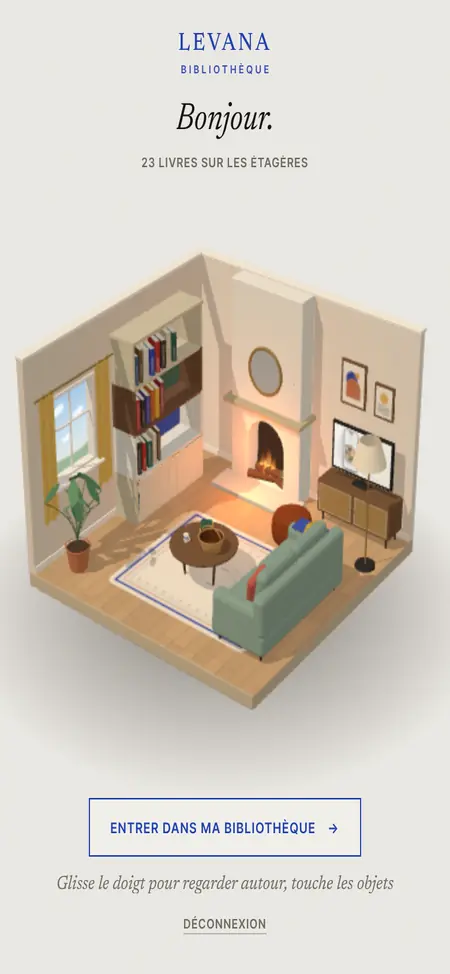
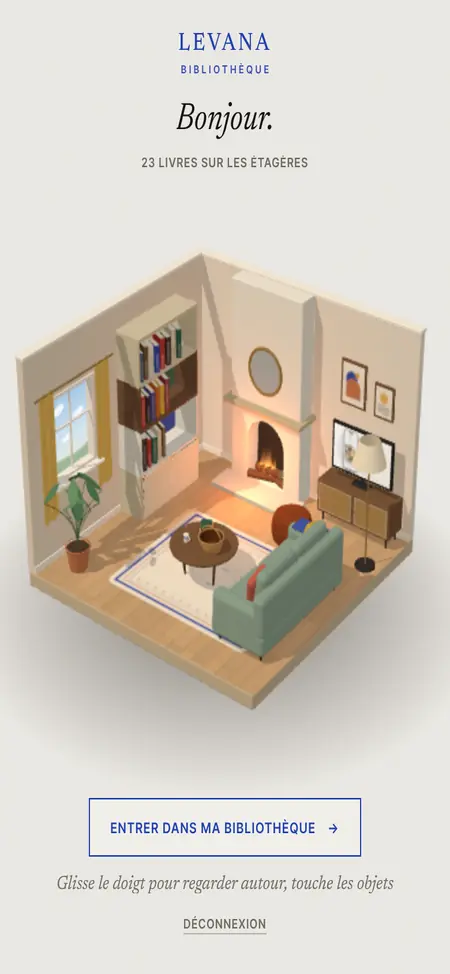
Téléphone : menu en bas comme une appli, rien en haut, étagères sans défilement
Claude-Session: https://claude.ai/code/session_01Tg9JuQWn64WBjX1JtYF8aa

Changed region(s): [[0.2489, 0.308, 0.4978, 0.5544], [0.4978, 0.3388, 0.5289, 0.3696], [0.4044, 0.2772, 0.4356, 0.308]]

diff --git a/src/App.jsx b/src/App.jsx
@@ -73,6 +73,7 @@ function Library({ user, onSignOut }) {
   const [search, setSearch] = useState(false)
   const [searchOpen, setSearchOpen] = useState(false)
   const [scanner, setScanner] = useState(false)
+  const [findOpen, setFindOpen] = useState(false)   // téléphone : « Chercher » (retrouver un livre, ranger par)
   const [guide, setGuide] = useState(false)     // livres du panier sortis en bas de l'écran, prêts à ranger
   // salon d'accueil : 'first' à l'arrivée, 'back' quand on y retourne, null dans la bibliothèque
   const [salon, setSalon] = useState(() => (HAS_WEBGL && !salonSeen() ? 'first' : null))
@@ -263,7 +264,7 @@ function Library({ user, onSignOut }) {
           shelves={shelves} commitShelves={commitShelves} newShelfSignal={newShelfSignal}
           onOpen={openBook} onAdd={openSearch} locked={overlay} apiRef={bookcaseApi}
           onShelfClick={id => setShelvesOpen({ id })}
-          aside={basket.items.length > 0 ? (
+          aside={basket.items.length > 0 && !mobile ? (
             <BasketTray
               items={basket.items} shelves={effShelves} books={books} api={bookcaseApi} mobile={mobile}
               canDrop={HAS_WEBGL && manual} open={guide} onOpen={() => setGuide(true)} onClose={() => setGuide(false)}
@@ -272,6 +273,62 @@ function Library({ user, onSignOut }) {
           ) : null}
           highlightId={highlightId} focusId={focusId} onFocused={onFocused} emptyText={emptyText}
         />
+      )}
+
+      {/* Téléphone : le panier s'ouvre depuis l'onglet « Panier » (pas de panier sous le mur) */}
+      {mobile && basket.items.length > 0 && (
+        <BasketTray
+          bare items={basket.items} shelves={effShelves} books={books} api={bookcaseApi} mobile
+          canDrop={HAS_WEBGL && manual} open={guide} onOpen={() => setGuide(true)} onClose={() => setGuide(false)}
+          onDropBook={dropFromBasket} onPlace={placeGuided} onOpenBook={b => onPick(b, null)}
+        />
+      )}
+
+      {/* Téléphone : menu en bas, comme une appli (pas dans le salon, qui a le sien) */}
+      {mobile && !salon && (
+        <>
+          {findOpen && (
+            <div className="find-sheet grain" onPointerDown={e => e.stopPropagation()}>
+              <LibrarySearch books={books} shelves={effShelves} autoFocus up onPick={id => { setFindOpen(false); setFocusId(id) }} />
+              <label className="lbl find-sort">
+                <span>Ranger par</span>
+                <select value={sort} onChange={e => setSort(e.target.value)}>
+                  {SORTS.map(o => <option key={o.id} value={o.id}>{o.label}</option>)}
+                </select>
+              </label>
+            </div>
+          )}
+          {findOpen && <div className="find-backdrop" onPointerDown={() => setFindOpen(false)} />}
+          <nav className="tabbar" aria-label="Menu">
+            {HAS_WEBGL && (
+              <button type="button" className="tab" onClick={() => { setFindOpen(false); setGuide(false); setSalon('back') }}>
+                <svg viewBox="0 0 24 24" aria-hidden="true"><path d="M3.5 11.2L12 4l8.5 7.2M6 9.8V20h12V9.8M10 20v-5.5h4V20" /></svg>
+                <span>Salon</span>
+              </button>
+            )}
+            <button type="button" className={'tab' + (findOpen ? ' on' : '')} onClick={() => setFindOpen(o => !o)}>
+              <svg viewBox="0 0 24 24" aria-hidden="true"><circle cx="10.5" cy="10.5" r="6" /><path d="M15 15l5 5" /></svg>
+              <span>Chercher</span>
+            </button>
+            <button type="button" className="tab tab-shop" onClick={() => { setFindOpen(false); openSearch() }} aria-label="Boutique : ajouter des livres">
+              <span className="tab-shop-bubble">
+                <svg viewBox="0 0 24 24" aria-hidden="true"><path d="M5 8h14l-1.2 12H6.2L5 8zM9 8V6.5a3 3 0 016 0V8" /><path d="M12 11.5v5M9.5 14h5" /></svg>
+              </span>
+              <span>Boutique</span>
+            </button>
+            <button type="button" className={'tab' + (shelvesOpen ? ' on' : '')} onClick={() => { setFindOpen(false); setShelvesOpen({ id: null }) }}>
+              <svg viewBox="0 0 24 24" aria-hidden="true"><path d="M4 4v16M20 4v16M4 9h16M4 14.5h16M4 20h16M7 9V6M9 9V5.5M12 14.5v-3.5M14.5 14.5v-3" /></svg>
+              <span>Étagères</span>
+            </button>
+            <button type="button" className={'tab' + (guide ? ' on' : '')} onClick={() => { setFindOpen(false); if (basket.items.length) setGuide(g => !g); else openSearch() }}>
+              <span className="tab-ico">
+                <svg viewBox="0 0 24 24" aria-hidden="true"><path d="M3.5 10h17l-1.8 9.5H5.3L3.5 10zM8 10l3-5.5M16 10l-3-5.5M8.5 13.5v3M12 13.5v3M15.5 13.5v3" /></svg>
+                {basket.items.length > 0 && <span className="tab-badge" key={basket.items.length}>{basket.items.length}</span>}
+              </span>
+              <span>Panier</span>
+            </button>
+          </nav>
+        </>
       )}
 
       <footer className="footer-bar">

diff --git a/src/styles.css b/src/styles.css
@@ -1345,3 +1345,63 @@ canvas { -webkit-user-select: none; user-select: none; -webkit-touch-callout: no
   .salon-out { font-size: 9px; }
 }
 .add-btn { gap: 5px; }
+
+/* Téléphone : comme une appli — rien en haut, un menu en bas ------------------------------ */
+.tabbar, .find-sheet, .find-backdrop { display: none; }
+@media (max-width: 767px) {
+  .top-bar, .scene-tabs { display: none !important; }
+  .scene { padding-top: env(safe-area-inset-top, 0px); padding-bottom: calc(64px + env(safe-area-inset-bottom, 0px)); }
+  /* le bas de la bibliothèque : seulement Sommaire et Tout voir, posés sur le mur */
+  .scene-bottom { position: fixed; left: 0; right: 0; bottom: calc(72px + env(safe-area-inset-bottom, 0px)); z-index: 4; padding: 0 12px; pointer-events: none; }
+  .scene-bottom > * { pointer-events: auto; }
+  .scene-bottom .scene-caption { visibility: hidden; }
+  .scene-bottom .zoom-btn, .scene-bottom .toc-btn { background: var(--sheet); width: 40px; height: 40px; padding: 0; justify-content: center; border-radius: 50%; box-shadow: 0 6px 14px -8px rgba(20, 16, 10, 0.5); }
+  .tabbar {
+    position: fixed; left: 0; right: 0; bottom: 0; z-index: 56; display: grid; grid-template-columns: repeat(5, 1fr); align-items: end;
+    height: calc(64px + env(safe-area-inset-bottom, 0px)); padding: 0 6px env(safe-area-inset-bottom, 0px);
+    background-color: var(--sheet); border-top: 1px solid var(--rule-soft); box-shadow: 0 -10px 30px -22px rgba(20, 16, 10, 0.45);
+  }
+  .tab {
+    display: flex; flex-direction: column; align-items: center; justify-content: center; gap: 4px; height: 64px; color: var(--muted);
+    font-family: var(--sans); font-weight: 600; font-size: 9.5px; letter-spacing: 0.06em; text-transform: uppercase;
+    -webkit-tap-highlight-color: transparent; transition: color 0.2s;
+  }
+  .tab svg { width: 24px; height: 24px; fill: none; stroke: currentColor; stroke-width: 1.6; stroke-linecap: round; stroke-linejoin: round; transition: transform 0.3s cubic-bezier(.3, 1.6, .5, 1); }
+  .tab:active svg { transform: scale(0.86); }
+  .tab.on { color: var(--cobalt); }
+  .tab-ico { position: relative; display: inline-flex; }
+  .tab-badge {
+    position: absolute; top: -5px; right: -9px; min-width: 17px; height: 17px; padding: 0 4px; border-radius: 9px;
+    background: #C9614F; color: #fff; font-size: 9.5px; letter-spacing: 0; display: inline-flex; align-items: center; justify-content: center;
+    animation: countPop 0.5s cubic-bezier(.3, 1.8, .5, 1);
+  }
+  .tab-shop { color: var(--cobalt); }
+  .tab-shop-bubble {
+    display: inline-flex; align-items: center; justify-content: center; width: 54px; height: 54px; margin-top: -22px; border-radius: 50%;
+    background: var(--cobalt); color: #fff; box-shadow: 0 10px 20px -8px rgba(31, 63, 176, 0.65); border: 4px solid var(--sheet);
+    transition: transform 0.3s cubic-bezier(.3, 1.6, .5, 1);
+  }
+  .tab-shop:active .tab-shop-bubble { transform: scale(0.9); }
+  .tab-shop svg { width: 26px; height: 26px; }
+  .find-backdrop { display: block; position: fixed; inset: 0; z-index: 55; background: rgba(20, 16, 10, 0.18); }
+  .find-sheet {
+    display: flex; flex-direction: column; gap: 14px; position: fixed; left: 0; right: 0; z-index: 56;
+    bottom: calc(64px + env(safe-area-inset-bottom, 0px)); padding: 16px 16px 14px;
+    background-color: var(--sheet); border-top: 1px solid var(--rule); box-shadow: 0 -18px 30px -22px rgba(20, 16, 10, 0.45);
+    animation: findUp 0.4s cubic-bezier(.3, 1.2, .45, 1) both;
+  }
+  @keyframes findUp { from { transform: translateY(100%); } }
+  .find-sheet .lib-search { width: 100%; }
+  .find-sheet .lib-search input, .find-sheet .lib-search input:focus { width: 100%; height: 38px; font-size: 18px; padding-left: 24px; }
+  .find-sheet .ls-icon { width: 15px; height: 15px; }
+  .lib-search.up .ls-pop { top: auto; bottom: calc(100% + 10px); left: 0; transform: none; width: 100%; }
+  .find-sort { display: flex; align-items: center; justify-content: space-between; gap: 10px; color: var(--muted); }
+  .find-sort select { height: 34px; padding: 0 10px; border: 1px solid var(--rule); background: transparent; font-family: var(--sans); font-weight: 600; font-size: 11px; letter-spacing: 0.08em; text-transform: uppercase; color: var(--ink); }
+  /* rangée du panier : posée au-dessus du menu */
+  .tray { z-index: 57; }
+}
+@media (max-width: 767px) {
+  /* sans la barre du haut, le mur occupe toute la hauteur au-dessus du menu */
+  .scene { grid-template-rows: minmax(0, 1fr); }
+  .scene > .case-row, .scene > .scene-loading { grid-row: 1; }
+}

diff --git a/src/three/BookcaseScene.js b/src/three/BookcaseScene.js
@@ -341,7 +341,6 @@ export class BookcaseScene {
     const base = this.bases.get(id)
     if (!base) return false
     this.scrollToRow(base.row)
-    this._revealInRow(id)
     clearTimeout(this.spotTimer)
     this.spotTimer = setTimeout(() => {
       const e = this.books.get(id)
@@ -583,19 +582,29 @@ export class BookcaseScene {
     this.rowEnds = []
     this.rowsData.forEach((row, r) => {
       const y0 = this.rowBase(r)
-      const items = row.books.map(b => (b.placeholder ? { ph: true, t: AVG_T * 1.2, d: 0.6 } : { b, ...bookDims(b) }))
-      let need = 0
-      items.forEach((it, i) => { need += i ? (items[i - 1].t + it.t) / (2 * cb) : 0 })
-      const first = items[0] ? (items[0].t * cb + items[0].d * sb) / 2 : 0
-      const lastExt = items.length ? (items[items.length - 1].t * cb + items[items.length - 1].d * sb) / 2 : 0
-      const avail = CW - PADX - 0.12 - first - lastExt - need
-      const gap = this.layout.mobile ? GAP : items.length > 1 ? Math.max(0.012, Math.min(GAP, avail / (items.length - 1))) : GAP
+      const raw = row.books.map(b => (b.placeholder ? { ph: true, t: AVG_T * 1.2, d: 0.6, h: 0 } : { b, ...bookDims(b) }))
+      const span = list => {
+        let need = 0
+        list.forEach((it, i) => { need += i ? (list[i - 1].t + it.t) / (2 * cb) : 0 })
+        const first = list[0] ? (list[0].t * cb + list[0].d * sb) / 2 : 0
+        const lastExt = list.length ? (list[list.length - 1].t * cb + list[list.length - 1].d * sb) / 2 : 0
+        return { need, first, lastExt }
+      }
+      // toute l'étagère tient dans la largeur : les livres se serrent, puis rapetissent s'il le faut
+      const MIN_GAP = 0.012, room = CW - PADX - 0.12
+      const s0 = span(raw)
+      const full = s0.need + s0.first + s0.lastExt
+      const k = raw.length > 1 && full + MIN_GAP * (raw.length - 1) > room ? clamp((room - MIN_GAP * (raw.length - 1)) / full, 0.4, 1) : 1
+      const items = k < 1 ? raw.map(it => ({ ...it, t: it.t * k, d: it.d * k, h: it.h * k })) : raw
+      const { need, first, lastExt } = k < 1 ? span(items) : s0
+      const avail = room - first - lastExt - need
+      const gap = items.length > 1 ? Math.max(MIN_GAP, Math.min(GAP, avail / (items.length - 1))) : GAP
       let x = -CW / 2 + PADX + first
       items.forEach((it, i) => {
         if (i) x += (items[i - 1].t + it.t) / (2 * cb) + gap
         if (it.ph) return
         const zSpine = SD / 2 - 0.045
-        this.bases.set(it.b.id, { x, y: y0 + it.h / 2, z: zSpine - (it.d / 2) * cb, row: r })
+        this.bases.set(it.b.id, { x, y: y0 + it.h / 2, z: zSpine - (it.d / 2) * cb, row: r, k })
       })
       this.rowEnds[r] = items.length ? x + lastExt : -CW / 2 + PADX
     })
@@ -642,6 +651,7 @@ export class BookcaseScene {
       if (!base) continue
       e.base = { x: base.x, y: base.y, z: base.z }
       e.row = base.row
+      e.wrap.scale.setScalar(base.k || 1)     // étagère très remplie : livres un peu plus petits
       if (created) {
         const drop = this.intro || this.freshIds.has(id) ? Math.min(0.2, RH - e.h - 0.02) : 0
         e.x.snap(base.x); e.z.snap(base.z); e.yaw.snap(-BETA)
@@ -705,12 +715,7 @@ export class BookcaseScene {
       if (!p.moved && dist > (p.type === 'mouse' ? 6 : 10)) {
         p.moved = true
         clearTimeout(p.timer)
-        // téléphone : un geste plutôt horizontal sur une rangée trop longue la fait défiler
-        if (this.layout?.mobile && p.row != null && this._overflows(p.row) && Math.abs(e.clientX - p.x) > Math.abs(e.clientY - p.y)) {
-          const sp = this._offSpring(p.row)
-          p.panX = { r: p.row, x: e.clientX, off: sp.v, lastX: e.clientX, lastT: performance.now(), vel: 0 }
-          this._setHover(null)
-        }
+
         if (!p.panX && p.id && p.type === 'mouse' && this.cb.canDrag?.() && this.zoom.t > 0.5) { this.onHoverMove(e); this._startDrag(); return }
         if (p.panX) return
         // sinon on fait défiler le mur (on le « tire » du doigt ou de la souris)

diff --git a/src/components/Basket.jsx b/src/components/Basket.jsx
@@ -258,7 +258,7 @@ export function ShelfBasket({ items, shelves, defaultShelf, canDrop, api, mobile
  * en bas de l'écran. On glisse un livre sur une étagère (une place s'ouvre), ou on touche son
  * « + » pour choisir l'étagère (la plus probable en premier).
  */
-export function BasketTray({ items, shelves, books, api, mobile, canDrop, open, onOpen, onClose, onDropBook, onPlace, onOpenBook }) {
+export function BasketTray({ items, shelves, books, api, mobile, canDrop, open, onOpen, onClose, onDropBook, onPlace, onOpenBook, bare = false }) {
   const real = useMemo(() => shelves.filter(s => !s.pseudo), [shelves])
   const byId = useMemo(() => new Map(books.map(b => [b.id, b])), [books])
   const [picker, setPicker] = useState(null)        // livre dont on choisit l'étagère
@@ -350,18 +350,7 @@ export function BasketTray({ items, shelves, books, api, mobile, canDrop, open, 
   const sugg = picker ? suggestShelf(picker, real, byId, last) : null
   const ordered = sugg ? [real.find(s => s.id === sugg.shelfId), ...real.filter(s => s.id !== sugg.shelfId)].filter(Boolean) : real
 
-  return (
-    <aside className={'tray-bar' + (open ? ' is-open' : '')} aria-label="Mon panier">
-      <div className="tray-basket" onClick={() => !open && onOpen()} role="button" tabIndex={0} aria-label="Sortir les livres du panier">
-        <AnyBasket items={items} width={mobile ? 104 : 190} onBookClick={() => !open && onOpen()} />
-      </div>
-      <div className="tray-side">
-        <p className="tray-count">{n > 1 ? `${n} livres à ranger` : '1 livre à ranger'}</p>
-        {/* toujours là (invisible une fois ouvert) : la place du panier ne change pas, le mur ne bouge pas */}
-        <button type="button" className="lbl box filled tray-out" style={open ? { visibility: 'hidden' } : undefined} onClick={onOpen}>Sortir les livres</button>
-      </div>
-
-      {open && (
+  const tray = (
         <div className="tray grain" role="dialog" aria-label="Livres à ranger">
           <div className="tray-head">
             <p className="tray-hint">{canDrop ? 'Glisse un livre sur une étagère, ou touche +' : 'Touche + pour choisir l’étagère'}</p>
@@ -398,7 +387,22 @@ export function BasketTray({ items, shelves, books, api, mobile, canDrop, open, 
             </div>
           )}
         </div>
-      )}
+  )
+  // téléphone : pas de panier sous le mur (l'onglet « Panier » ouvre directement la rangée)
+  if (bare) return open ? tray : null
+
+  return (
+    <aside className={'tray-bar' + (open ? ' is-open' : '')} aria-label="Mon panier">
+      <div className="tray-basket" onClick={() => !open && onOpen()} role="button" tabIndex={0} aria-label="Sortir les livres du panier">
+        <AnyBasket items={items} width={mobile ? 104 : 190} onBookClick={() => !open && onOpen()} />
+      </div>
+      <div className="tray-side">
+        <p className="tray-count">{n > 1 ? `${n} livres à ranger` : '1 livre à ranger'}</p>
+        {/* toujours là (invisible une fois ouvert) : la place du panier ne change pas, le mur ne bouge pas */}
+        <button type="button" className="lbl box filled tray-out" style={open ? { visibility: 'hidden' } : undefined} onClick={onOpen}>Sortir les livres</button>
+      </div>
+
+      {open && tray}
     </aside>
   )
 }

diff --git a/src/three/tvTutorial.js b/src/three/tvTutorial.js
@@ -18,14 +18,14 @@ const SHOT_W = 450, SHOT_H = 974
 const SLIDES = [
   { title: 'Bienvenue dans ton salon', text: 'Glisse le doigt pour regarder autour de toi. Touche les objets : ils réagissent.', frames: ['salon-a', 'salon-b'] },
   { title: 'Entre dans ta bibliothèque', text: 'Touche la bibliothèque du salon : la caméra plonge et tu arrives devant tes étagères.', frames: ['enter-a', 'enter-b', 'enter-c'] },
-  { title: 'Ajoute un livre', text: '« + Ajouter un livre » : tape un titre, un auteur… ou scanne le code-barres au dos.', frames: ['add-a', 'add-b'] },
+  { title: 'Ajoute un livre', text: 'La Boutique, le gros bouton bleu en bas : tape un titre, un auteur… ou scanne le code-barres.', frames: ['add-a', 'add-b'] },
   { title: 'Remplis ton panier', text: 'Touche « + », ou reste appuyé sur un livre et glisse-le : le panier monte pour l’attraper.', frames: ['basket-a', 'basket-b', 'basket-c'] },
-  { title: 'Range tes livres', text: 'Touche le panier : tes livres sortent en bas de l’écran. Glisse-les sur une étagère, ou touche + pour la choisir.', frames: ['range-a', 'range-b', 'range-c'] },
-  { title: 'Tes étagères, à ton goût', text: '« Mes étagères » : crée, renomme, change le bois, la couleur du fond et les portes.', frames: ['shelves-a', 'shelves-b', 'shelves-c'] },
+  { title: 'Range tes livres', text: 'L’onglet « Panier » : tes livres sortent en bas de l’écran. Glisse-les sur une étagère, ou touche + pour la choisir.', frames: ['range-a', 'range-b', 'range-c'] },
+  { title: 'Tes étagères, à ton goût', text: 'L’onglet « Étagères » : crée, renomme, change le bois, la couleur du fond et les portes.', frames: ['shelves-a', 'shelves-b', 'shelves-c'] },
   { title: 'Déplace tes livres', text: 'Reste appuyé sur un livre, puis glisse-le à sa nouvelle place.', frames: ['move-a', 'move-b'] },
   { title: 'En cours, lu', text: 'Touche un livre : « En cours » glisse un marque-page entre ses pages, « Lu » le tamponne.', frames: ['read-a', 'read-b', 'read-c'] },
-  { title: 'Retrouve un livre', text: 'Tape quelques lettres dans « Retrouver un livre… » : la bibliothèque t’emmène jusqu’à lui.', frames: ['find-a', 'find-b'] },
-  { title: 'Reviens au salon', text: 'Le bouton « Salon », en haut à droite, te ramène ici. Bonne lecture !', frames: ['home-a', 'home-b', 'home-c'] },
+  { title: 'Retrouve un livre', text: 'L’onglet « Chercher » : tape quelques lettres, la bibliothèque t’emmène jusqu’au livre.', frames: ['find-a', 'find-b'] },
+  { title: 'Reviens au salon', text: 'L’onglet « Salon », en bas à gauche, te ramène ici. Bonne lecture !', frames: ['home-a', 'home-b', 'home-c'] },
 ]
 
 export const TUTO_STEPS = () => SLIDES.map(({ title, text }) => ({ title, text }))

diff --git a/src/components/LibrarySearch.jsx b/src/components/LibrarySearch.jsx
@@ -7,7 +7,7 @@ const norm = s => (s || '').normalize('NFD').replace(/[̀-ͯ]/g, '').toLowerCase
  * « Retrouver un livre » dans sa propre bibliothèque : on tape un titre ou un auteur,
  * on choisit, et la bibliothèque va jusqu'au livre (qui sort un instant de l'étagère).
  */
-export default function LibrarySearch({ books, shelves, onPick }) {
+export default function LibrarySearch({ books, shelves, onPick, autoFocus = false, up = false }) {
   const [q, setQ] = useState('')
   const [open, setOpen] = useState(false)
   const [active, setActive] = useState(0)
@@ -36,6 +36,7 @@ export default function LibrarySearch({ books, shelves, onPick }) {
   }, [q, books])
 
   useEffect(() => { setActive(0) }, [q])
+  useEffect(() => { if (autoFocus) setTimeout(() => input.current?.focus(), 60) }, [autoFocus])
   useEffect(() => {
     const onDown = e => { if (box.current && !box.current.contains(e.target)) setOpen(false) }
     window.addEventListener('pointerdown', onDown)
@@ -49,7 +50,7 @@ export default function LibrarySearch({ books, shelves, onPick }) {
   }
 
   return (
-    <div className="lib-search" ref={box}>
+    <div className={'lib-search' + (up ? ' up' : '')} ref={box}>
       <svg className="ls-icon" width="12" height="12" viewBox="0 0 12 12" aria-hidden="true"><circle cx="5" cy="5" r="4" stroke="currentColor" fill="none" /><path d="M8 8l3.5 3.5" stroke="currentColor" /></svg>
       <input
         ref={input} type="search" value={q} placeholder="Retrouver un livre…" spellCheck="false"
